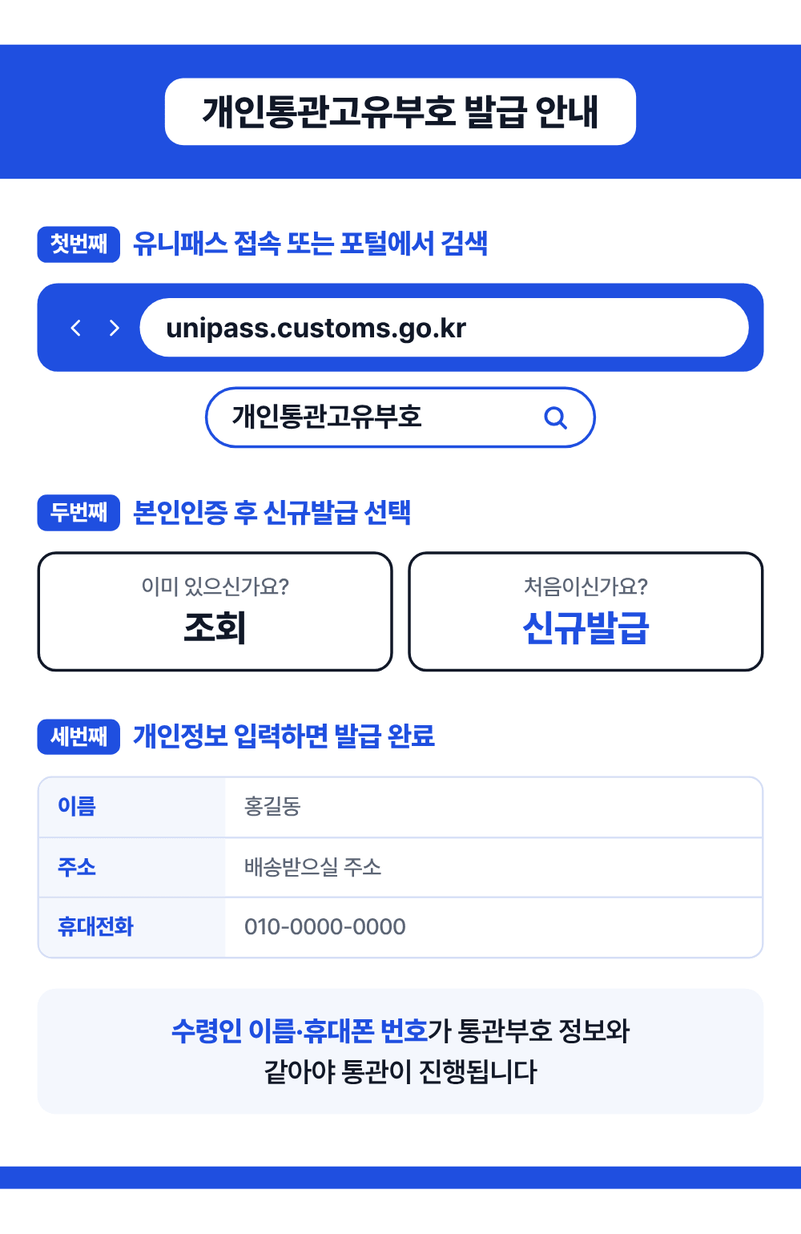
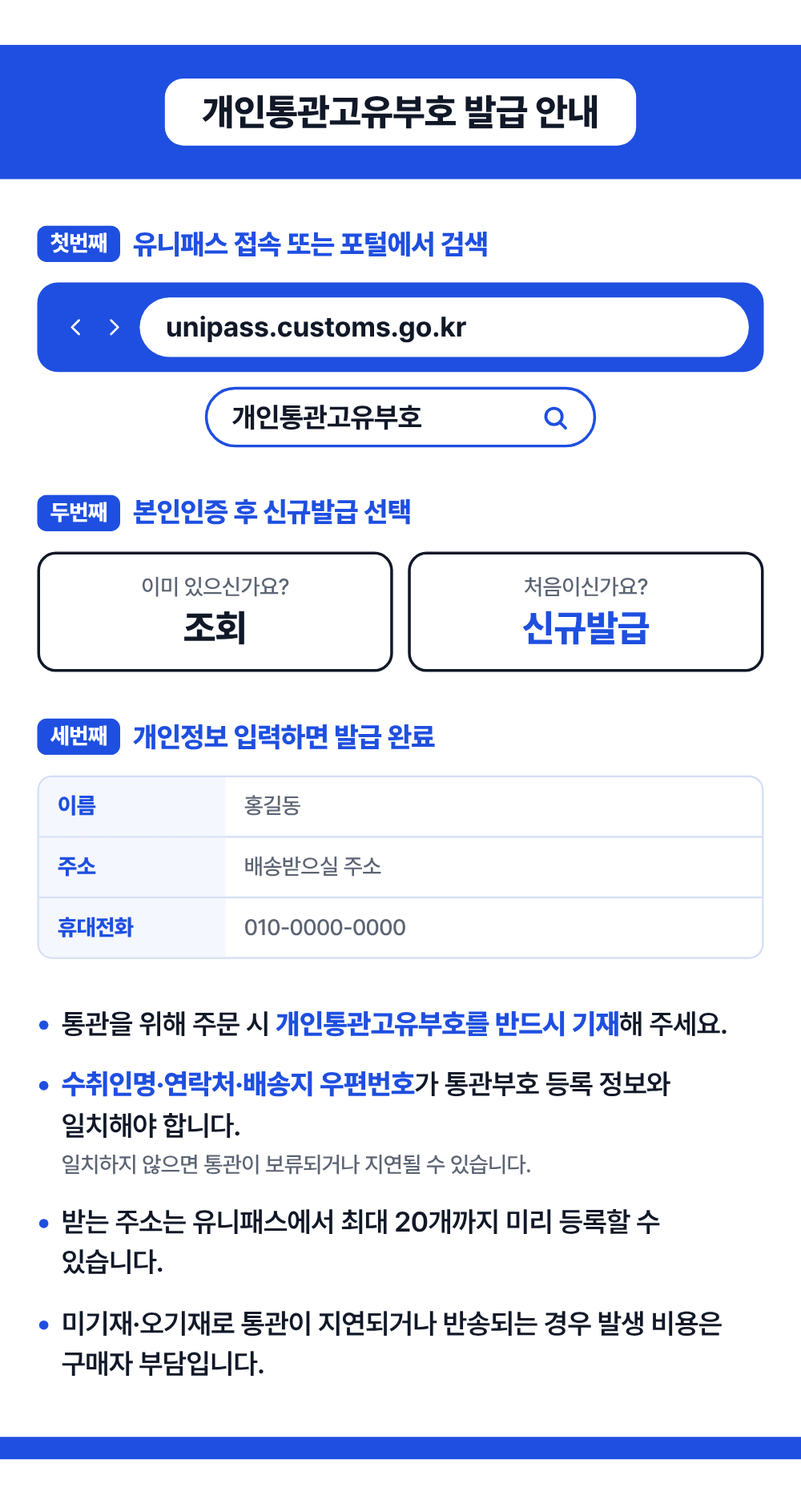
하단 안내 누락 항목 보완: 레퍼런스 하단 내용 전부 반영
- 배송: 국내 상품과 조건 차이, 국내 배송부터 조회, 통관 시 박스 개봉
- 통관부호: 우편번호 일치, 주소 20개 등록, 미기재·오기재 비용
- 관부가세: 알림톡 납부 안내, 착불 배송비 4가지 조건
- 상품: 리뉴얼 발송, 변압기·한글 설명서, 해외 사이즈
- 교환·반품: 회수 절차·임의 반송 수취 거부, 미세 흠집, 경미한 하자
- 취소: 발주 전/후/출고 후 3단계, 품절·단종 시 전액 환불, 리뉴얼 가격
- 개인정보 제3자 제공 동의, 구매대행·안전관리대상·이미지 권리 고지 추가

Claude-Session: https://claude.ai/code/session_01PE2ziTJ29XNj6qrJ9hNtvD

Changed region(s): [[0.0, 0.0312, 1.0, 0.9974], [0.93, 0.6234, 0.961, 0.6545]]

diff --git a/onnuri-design/src/bottom.html b/onnuri-design/src/bottom.html
@@ -5,10 +5,25 @@
   /* 헤더 */
   .hero { padding: 72px 40px 80px; text-align: center; }
   .hero .m { color: var(--gray); margin-bottom: 18px; }
-  .hero .notice { margin-top: 32px; display: inline-block; background: var(--main-soft); border-radius: 14px; padding: 8px 24px; }
+  .hero .notice { margin-top: 32px; display: inline-block; background: var(--main-soft); border-radius: 14px; padding: 8px 24px; color: var(--ink); }
 
-  /* 배송 6단계 (한 줄) */
-  .steps { display: grid; grid-template-columns: repeat(6, 1fr); padding: 64px 8px 36px; }
+  /* 공통 글머리 목록 */
+  .bul { list-style: none; margin-top: 36px; }
+  .bul li { position: relative; padding-left: 26px; }
+  .bul li + li { margin-top: 22px; }
+  .bul li::before { content: ""; position: absolute; left: 2px; top: 18px; width: 10px; height: 10px; border-radius: 50%; background: var(--main); }
+  .bul li b { color: var(--main); }
+  .bul li .s { display: block; margin-top: 4px; }
+  .sub { margin-top: 44px; padding-top: 36px; border-top: 2px dashed var(--line); }
+  .sub-t { color: var(--main); font-weight: 800; }
+
+  /* 파란 강조 블록 */
+  .callout { margin-top: 28px; background: var(--main); color: #fff; border-radius: 24px; padding: 28px 24px; text-align: center; }
+  .callout .xl { color: var(--point); }
+  .callout .xl small { font-size: var(--s); color: #fff; font-weight: 600; }
+
+  /* 배송 6단계 */
+  .steps { display: grid; grid-template-columns: repeat(6, 1fr); margin: 0 -28px; }
   .step { text-align: center; position: relative; }
   .step:not(:last-child)::after { content: ""; position: absolute; top: 46px; right: -10px; width: 20px; border-top: 3px dotted var(--line); }
   .step .ico { position: relative; width: 92px; height: 92px; margin: 0 auto; border-radius: 50%; background: var(--main-soft); color: var(--main); display: grid; place-items: center; font-size: 46px; }
@@ -16,11 +31,8 @@
   .step .no { position: absolute; top: -6px; left: -6px; width: 34px; height: 34px; border-radius: 50%; background: var(--main); color: #fff; font-size: var(--s); font-weight: 800; display: grid; place-items: center; line-height: 1; }
   .step.last .no { background: var(--ink); }
   .step .s { margin-top: 12px; color: var(--ink); font-weight: 700; }
-  .box-foot .xl { color: var(--point); }
-  .box-foot .xl small { font-size: var(--s); color: #fff; font-weight: 600; }
-  .under { margin: 22px 40px 0; text-align: center; }
 
-  /* 띠 헤더 (레퍼런스 개인통관 섹션 구조) */
+  /* 띠 헤더 (개인통관고유부호) */
   .band { background: var(--main); padding: 36px 40px; text-align: center; }
   .band span { display: inline-block; background: #fff; border-radius: 20px; padding: 10px 40px; }
   .band-end { height: 24px; background: var(--main); }
@@ -35,59 +47,64 @@
   .search svg { color: var(--main); stroke-width: 2.6; }
   .choose { margin-top: 20px; display: grid; grid-template-columns: 1fr 1fr; gap: 16px; }
   .choose > div { border: 3px solid var(--ink); border-radius: 20px; padding: 18px; text-align: center; }
-  .choose > div .l { color: var(--ink); }
-  .choose div.on .l { color: var(--main); }
+  .choose > div.on .l { color: var(--main); }
   .form { margin-top: 20px; border: 2px solid var(--line); border-radius: 16px; overflow: hidden; }
   .form div { display: grid; grid-template-columns: 200px 1fr; border-top: 2px solid var(--line); }
   .form div:first-child { border-top: 0; }
   .form b { background: var(--bg-2); color: var(--main); padding: 14px 20px; font-size: var(--s); }
   .form i { font-style: normal; padding: 14px 20px; font-size: var(--s); color: var(--gray); }
-  .warn { margin-top: 32px; background: var(--bg-2); border-radius: 20px; padding: 24px 28px; text-align: center; }
-  .warn .m b { color: var(--main); }
 
   /* 관부가세 */
   .tax { display: grid; grid-template-columns: 1fr 1fr; }
-  .tax > div { text-align: center; padding: 8px 0; }
+  .tax > div { text-align: center; }
   .tax > div + div { border-left: 2px solid var(--line); }
   .tax .xl { color: var(--main); }
   .tax .xl small { font-size: var(--m); color: var(--ink); font-weight: 700; }
+  /* 착불 4조건 */
+  .cod { margin-top: 24px; display: grid; grid-template-columns: repeat(4, 1fr); gap: 12px; }
+  .cod > div { background: var(--bg-2); border-radius: 20px; padding: 22px 8px; text-align: center; }
+  .cod .lab { color: var(--main); font-size: var(--m); font-weight: 900; white-space: nowrap; }
+  .cod .s { margin-top: 4px; line-height: 1.35; }
 
-  /* 체크 리스트 */
-  .list li { list-style: none; display: flex; gap: 16px; padding: 22px 0; }
-  .list li:first-child { padding-top: 0; }
-  .list li:last-child { padding-bottom: 0; }
-  .list li + li { border-top: 2px dashed var(--line); }
-  .list li svg { flex: none; font-size: var(--m); color: var(--main); stroke-width: 3; margin-top: 6px; }
-  .list .m b { color: var(--main); }
-  .list .s { display: block; margin-top: 2px; }
+  /* 주문 취소 3단계 */
+  .flow { display: grid; grid-template-columns: 1fr 28px 1fr 28px 1fr; align-items: center; }
+  .flow > div:not(.ar) { border-radius: 20px; padding: 22px 8px; text-align: center; }
+  .flow .ar { text-align: center; color: var(--gray); font-size: var(--m); font-weight: 800; }
+  .flow .f1 { background: var(--main); color: #fff; }
+  .flow .f1 .s { color: rgba(255,255,255,.85); }
+  .flow .f1 .m { color: var(--point); }
+  .flow .f2, .flow .f3 { background: var(--bg-2); }
+  .flow .m { font-weight: 800; margin-top: 4px; }
 
-  /* 주문 취소 */
-  .cancel { display: grid; grid-template-columns: 1fr 1fr; gap: 16px; }
-  .cancel > div { border-radius: 24px; padding: 30px 24px; text-align: center; }
-  .cancel .ok { background: var(--main); color: #fff; }
-  .cancel .ok .s { color: rgba(255,255,255,.85); }
-  .cancel .no { background: var(--bg-2); }
-  .cancel .l { margin: 6px 0 10px; }
-  .cancel .ok .l { color: var(--point); }
-
-  /* 교환·반품 표 */
-  .rt { border: 2px solid var(--line); border-radius: 20px; overflow: hidden; }
-  .rt .row { display: grid; grid-template-columns: 190px 1fr; }
-  .rt .row + .row { border-top: 2px solid var(--line); }
-  .rt .k { background: var(--bg-2); color: var(--main); font-size: var(--m); font-weight: 800; padding: 24px 22px; display: flex; align-items: center; }
-  .rt .v { padding: 24px 24px; }
-  .rt .v .s { display: block; margin-top: 4px; }
-  .tag2 { display: inline-block; border-radius: 8px; padding: 0 10px; margin-right: 8px; font-size: var(--s); font-weight: 800; vertical-align: 3px; }
+  /* 교환·반품 2카드 */
+  .rcard { display: grid; grid-template-columns: 1fr 1fr; gap: 16px; }
+  .rcard > div { border-radius: 24px; padding: 26px 24px; }
+  .rcard .free { border: 3px solid var(--main); }
+  .rcard .paid { background: var(--bg-2); }
+  .tag2 { display: inline-block; border-radius: 8px; padding: 0 12px; font-size: var(--s); font-weight: 800; }
   .tag2.me { background: var(--main); color: #fff; }
   .tag2.you { background: var(--point); color: var(--ink); }
+  .rcard .m { font-weight: 800; margin-top: 12px; }
+  .rcard .s { margin-top: 8px; line-height: 1.45; }
 
-  /* 고객센터 (레퍼런스 맨 아래 구조) */
+  /* 개인정보 표 */
+  .pt { margin-top: 32px; border-top: 3px solid var(--ink); }
+  .pt > div { display: grid; grid-template-columns: 200px 1fr; border-bottom: 2px solid var(--line); }
+  .pt b { background: var(--bg-2); padding: 18px 18px; font-size: var(--s); }
+  .pt span { padding: 18px 20px; font-size: var(--s); color: var(--ink); font-weight: 500; line-height: 1.5; }
+
+  /* 고객센터 */
   .cs { background: var(--main); color: #fff; text-align: center; padding: 72px 40px 80px; }
   .cs .m { color: rgba(255,255,255,.9); }
   .cs .l { margin-top: 10px; }
   .cs .l .c-point { font-size: var(--xl); font-weight: 900; vertical-align: -6px; }
   .cs .time { margin-top: 28px; display: inline-block; border: 2px solid rgba(255,255,255,.5); border-radius: 999px; padding: 10px 32px; }
   .cs .s { margin-top: 20px; color: rgba(255,255,255,.85); }
+
+  /* 법적 고지 */
+  .legal { padding: 56px 40px 64px; text-align: center; background: var(--bg-2); }
+  .legal p + p { margin-top: 20px; }
+  .legal .lic { color: var(--ink); font-weight: 700; }
 </style></head>
 <body>
 
@@ -98,27 +115,36 @@
   <div class="notice m">본 상품은 <b class="c-main">해외에서 배송</b>되는 상품입니다</div>
 </div>
 
-<!-- 배송 진행 순서 -->
+<!-- 01 배송 안내 -->
 <div class="box">
-  <div class="pill">배송 진행 순서</div>
-  <div class="steps">
-    <div class="step"><div class="ico"><span class="no">1</span><svg class="ic" viewBox="0 0 24 24"><circle cx="9" cy="20" r="1.4"/><circle cx="19" cy="20" r="1.4"/><path d="M2 3h3l2.7 12.4a2 2 0 0 0 2 1.6h8.6a2 2 0 0 0 2-1.6L22 7H6"/></svg></div><div class="s">주문·결제</div></div>
-    <div class="step"><div class="ico"><span class="no">2</span><svg class="ic" viewBox="0 0 24 24"><path d="M6 2 3 6v14a2 2 0 0 0 2 2h14a2 2 0 0 0 2-2V6l-3-4z"/><path d="M3 6h18"/><path d="M16 10a4 4 0 0 1-8 0"/></svg></div><div class="s">현지 구매</div></div>
-    <div class="step"><div class="ico"><span class="no">3</span><svg class="ic" viewBox="0 0 24 24"><rect x="8" y="2" width="8" height="4" rx="1"/><path d="M16 4h2a2 2 0 0 1 2 2v14a2 2 0 0 1-2 2H6a2 2 0 0 1-2-2V6a2 2 0 0 1 2-2h2"/><path d="m9 14 2 2 4-4"/></svg></div><div class="s">현지 검수</div></div>
-    <div class="step"><div class="ico"><span class="no">4</span><svg class="ic" viewBox="0 0 24 24"><path d="M17.8 19.2 16 11l3.5-3.5C21 6 21.5 4 21 3c-1-.5-3 0-4.5 1.5L13 8 4.8 6.2c-.5-.1-.9.1-1.1.5l-.3.5c-.2.5-.1 1 .3 1.3L9 12l-2 3H4l-1 1 3 2 2 3 1-1v-3l3-2 3.5 5.3c.3.4.8.5 1.3.3l.5-.2c.4-.3.6-.7.5-1.2z"/></svg></div><div class="s">국제 배송</div></div>
-    <div class="step"><div class="ico"><span class="no">5</span><svg class="ic" viewBox="0 0 24 24"><path d="M12 22s8-4 8-10V5l-8-3-8 3v7c0 6 8 10 8 10z"/><path d="m9 12 2 2 4-4"/></svg></div><div class="s">세관 통관</div></div>
-    <div class="step last"><div class="ico"><span class="no">6</span><svg class="ic" viewBox="0 0 24 24"><path d="M1 4h14v12H1z"/><path d="M15 8h4l4 4v4h-8z"/><circle cx="5.5" cy="18.5" r="2"/><circle cx="18.5" cy="18.5" r="2"/></svg></div><div class="s">국내 배송</div></div>
-  </div>
-  <div class="box-foot">
-    <div class="m">결제 후 받아보시기까지 평균</div>
-    <div class="xl">7~15일 <small>(영업일 기준)</small></div>
+  <div class="pill">배송 안내</div>
+  <div class="box-in">
+    <div class="steps">
+      <div class="step"><div class="ico"><span class="no">1</span><svg class="ic" viewBox="0 0 24 24"><circle cx="9" cy="20" r="1.4"/><circle cx="19" cy="20" r="1.4"/><path d="M2 3h3l2.7 12.4a2 2 0 0 0 2 1.6h8.6a2 2 0 0 0 2-1.6L22 7H6"/></svg></div><div class="s">주문·결제</div></div>
+      <div class="step"><div class="ico"><span class="no">2</span><svg class="ic" viewBox="0 0 24 24"><path d="M6 2 3 6v14a2 2 0 0 0 2 2h14a2 2 0 0 0 2-2V6l-3-4z"/><path d="M3 6h18"/><path d="M16 10a4 4 0 0 1-8 0"/></svg></div><div class="s">현지 발주</div></div>
+      <div class="step"><div class="ico"><span class="no">3</span><svg class="ic" viewBox="0 0 24 24"><rect x="8" y="2" width="8" height="4" rx="1"/><path d="M16 4h2a2 2 0 0 1 2 2v14a2 2 0 0 1-2 2H6a2 2 0 0 1-2-2V6a2 2 0 0 1 2-2h2"/><path d="m9 14 2 2 4-4"/></svg></div><div class="s">현지 검수</div></div>
+      <div class="step"><div class="ico"><span class="no">4</span><svg class="ic" viewBox="0 0 24 24"><path d="M17.8 19.2 16 11l3.5-3.5C21 6 21.5 4 21 3c-1-.5-3 0-4.5 1.5L13 8 4.8 6.2c-.5-.1-.9.1-1.1.5l-.3.5c-.2.5-.1 1 .3 1.3L9 12l-2 3H4l-1 1 3 2 2 3 1-1v-3l3-2 3.5 5.3c.3.4.8.5 1.3.3l.5-.2c.4-.3.6-.7.5-1.2z"/></svg></div><div class="s">국제 배송</div></div>
+      <div class="step"><div class="ico"><span class="no">5</span><svg class="ic" viewBox="0 0 24 24"><path d="M12 22s8-4 8-10V5l-8-3-8 3v7c0 6 8 10 8 10z"/><path d="m9 12 2 2 4-4"/></svg></div><div class="s">세관 통관</div></div>
+      <div class="step last"><div class="ico"><span class="no">6</span><svg class="ic" viewBox="0 0 24 24"><path d="M1 4h14v12H1z"/><path d="M15 8h4l4 4v4h-8z"/><circle cx="5.5" cy="18.5" r="2"/><circle cx="18.5" cy="18.5" r="2"/></svg></div><div class="s">국내 배송</div></div>
+    </div>
+    <div class="callout">
+      <div class="m">결제 후 받아보시기까지 평균</div>
+      <div class="xl">7~15일 <small>(영업일 기준)</small></div>
+    </div>
+    <ul class="bul m">
+      <li>주문 후 현지에서 발주되는 <b>해외 배송 상품</b>으로, 국내 배송 상품과 배송 기간·취소·반품 조건이 다릅니다.</li>
+      <li>현지 센터에서 <b>검수를 마친 뒤 발송</b>합니다.</li>
+      <li>운송장 배송 조회는 <b>국내 배송이 시작된 이후부터</b> 가능합니다.</li>
+      <li>통관 검사를 위해 오리지널 박스가 개봉될 수 있으며, 반품 사유에 해당하지 않습니다.</li>
+      <li>세관 통관·현지 입고 지연·명절·기상 상황 등으로 배송이 늦어질 수 있습니다.</li>
+      <li>여러 상품을 함께 주문하시면 따로 도착할 수 있습니다.</li>
+    </ul>
   </div>
 </div>
-<div class="under s">세관 통관 · 현지 입고 지연 · 명절 · 기상 상황 등으로 늦어질 수 있습니다.<br>여러 상품을 주문하시면 따로 도착할 수 있습니다.</div>
 
 <div class="gap"></div>
 
-<!-- 개인통관고유부호 -->
+<!-- 02 개인통관고유부호 -->
 <div class="band"><span class="l">개인통관고유부호 발급 안내</span></div>
 <div class="pc">
   <div class="pstep">
@@ -141,67 +167,122 @@
       <div><b>휴대전화</b><i>010-0000-0000</i></div>
     </div>
   </div>
-  <div class="warn"><div class="m"><b>수령인 이름·휴대폰 번호</b>가 통관부호 정보와<br>같아야 통관이 진행됩니다</div></div>
+  <ul class="bul m" style="margin-top:48px">
+    <li>통관을 위해 주문 시 <b>개인통관고유부호를 반드시 기재</b>해 주세요.</li>
+    <li><b>수취인명·연락처·배송지 우편번호</b>가 통관부호 등록 정보와 일치해야 합니다.<span class="s">일치하지 않으면 통관이 보류되거나 지연될 수 있습니다.</span></li>
+    <li>받는 주소는 유니패스에서 최대 20개까지 미리 등록할 수 있습니다.</li>
+    <li>미기재·오기재로 통관이 지연되거나 반송되는 경우 발생 비용은 구매자 부담입니다.</li>
+  </ul>
 </div>
 <div class="band-end"></div>
 
 <div class="gap"></div>
 
-<!-- 관부가세 -->
+<!-- 03 배송비와 관부가세 -->
 <div class="box">
-  <div class="pill">관부가세 안내</div>
+  <div class="pill">배송비와 관·부가세</div>
   <div class="box-in">
     <div class="tax">
       <div><div class="m">미국 발송</div><div class="xl">$200<small> 이하</small></div></div>
       <div><div class="m">그 외 국가 발송</div><div class="xl">$150<small> 이하</small></div></div>
     </div>
+    <div class="callout"><div class="m">위 금액 이하로 구매하시면 <b class="c-point">관부가세가 없습니다</b></div></div>
+    <ul class="bul m">
+      <li>면세 한도를 초과하면 <b>구매자가 관부가세를 별도로 납부</b>합니다.<span class="s">통관 시 관세청에서 알림톡 또는 문자로 납부 안내가 발송됩니다.</span></li>
+      <li>같은 날 입항하는 여러 건의 주문은 합산 과세될 수 있습니다.</li>
+    </ul>
+    <div class="sub">
+      <div class="m sub-t">착불 배송비 안내</div>
+      <div class="m" style="margin-top:6px">아래에 해당하면 <b>착불 배송비가 발생하며 구매자 부담</b>입니다.</div>
+      <div class="cod">
+        <div><div class="lab">1m ↑</div><div class="s">박스 한 변이<br>1m 이상</div></div>
+        <div><div class="lab">150cm ↑</div><div class="s">박스 세 변<br>합이 150cm 이상</div></div>
+        <div><div class="lab">20kg ↑</div><div class="s">상품 무게가<br>20kg 초과</div></div>
+        <div><div class="lab">이형</div><div class="s">상품 모양이<br>이형인 경우</div></div>
+      </div>
+      <ul class="bul m"><li>착불 배송비는 담당 기사님이 실제로 측정해 결정하므로 미리 안내드리기 어렵습니다.</li></ul>
+    </div>
   </div>
-  <div class="box-foot"><div class="m">위 금액 이하로 구매하시면 <b class="c-point">관부가세가 없습니다</b></div></div>
 </div>
-<div class="under s">면세 한도 초과 시 관부가세는 수입자(고객님) 부담입니다.<br>같은 날 같은 나라에서 들어온 물품은 합산 과세될 수 있습니다.</div>
 
 <div class="gap"></div>
 
-<!-- 주문 필독 사항 -->
+<!-- 04 상품 안내 -->
 <div class="box">
-  <div class="pill">주문 필독 사항</div>
+  <div class="pill">상품 안내</div>
   <div class="box-in">
-    <ul class="list">
-      <li><svg class="ic" viewBox="0 0 24 24"><path d="M20 6 9 17l-5-5"/></svg><div class="m"><b>옵션명·옵션 이미지</b> 기준으로 발송됩니다<span class="s">대표 사진은 연출 이미지로 구성이 다를 수 있습니다</span></div></li>
-      <li><svg class="ic" viewBox="0 0 24 24"><path d="M20 6 9 17l-5-5"/></svg><div class="m">사이즈는 <b>1~3cm 오차</b>가 있을 수 있습니다</div></li>
-      <li><svg class="ic" viewBox="0 0 24 24"><path d="M20 6 9 17l-5-5"/></svg><div class="m">화면에 따라 <b>실제 색상과 차이</b>가 있을 수 있습니다</div></li>
-      <li><svg class="ic" viewBox="0 0 24 24"><path d="M20 6 9 17l-5-5"/></svg><div class="m">전자제품은 <b>전압(110V/220V)·플러그</b>를 확인해 주세요</div></li>
-      <li><svg class="ic" viewBox="0 0 24 24"><path d="M20 6 9 17l-5-5"/></svg><div class="m"><b>박스 눌림·외부 포장 흠집</b>은 교환·반품 사유가 아닙니다</div></li>
-      <li><svg class="ic" viewBox="0 0 24 24"><path d="M20 6 9 17l-5-5"/></svg><div class="m">해외 구매대행 상품으로 <b>국내 A/S가 어려울 수 있습니다</b></div></li>
+    <ul class="bul m" style="margin-top:0">
+      <li>상품은 <b>옵션명·옵션 이미지 기준</b>으로 발송됩니다.<span class="s">대표 사진은 연출 이미지로 구성이 다를 수 있습니다.</span></li>
+      <li>현지 제조 공정 변화 등으로 <b>디자인·사이즈에 차이</b>가 있을 수 있으며, 리뉴얼 상품으로 발송될 수 있습니다.</li>
+      <li>상품 색상은 모니터·휴대폰 화면에 따라 다르게 보일 수 있습니다.</li>
+      <li>실측 사이즈는 측정 방식에 따라 <b>약 1~3cm 오차</b>가 있을 수 있으며, 불량에 해당하지 않습니다.</li>
+      <li>전자·전기제품은 <b>전압(110V/220V)과 플러그 규격</b>을 확인해 주세요.<span class="s">변압기·어댑터가 필요할 수 있으며, 한글 설명서가 제공되지 않을 수 있습니다.</span></li>
+      <li>의류·잡화는 <b>해외 사이즈 기준</b>이므로 상세 사이즈표를 확인해 주세요.<span class="s">착용·세탁 후에는 반품이 불가합니다.</span></li>
     </ul>
   </div>
 </div>
 
 <div class="gap"></div>
 
-<!-- 주문 취소 -->
+<!-- 05 교환·반품 -->
 <div class="box">
-  <div class="pill">주문 취소 안내</div>
+  <div class="pill">교환·반품 안내</div>
   <div class="box-in">
-    <div class="cancel">
-      <div class="ok"><div class="s">현지 구매 전</div><div class="l">즉시 취소 가능</div><div class="s">결제 금액 전액 환불</div></div>
-      <div class="no"><div class="s">현지 구매 후</div><div class="l">취소 비용 발생</div><div class="s">현지 반품 비용 등 차감<br>출고 후에는 반품으로 진행</div></div>
+    <div class="rcard">
+      <div class="free"><span class="tag2 me">무상</span><div class="m">파손·오배송·제품 결함</div><div class="s">무상 교환·환불해 드립니다.<br>수령 후 7일 이내 사진 또는 동영상과 함께 접수해 주세요.</div></div>
+      <div class="paid"><span class="tag2 you">구매자 부담</span><div class="m">단순 변심</div><div class="s">왕복 배송비를 구매자가 부담합니다. 해외 왕복 운송이 포함되어 부피·중량에 따라 금액이 다르며, 접수 시 안내해 드립니다.</div></div>
     </div>
+    <ul class="bul m">
+      <li>교환·반품은 <b>상품 수령 후 7일 이내</b>에 톡톡으로 먼저 접수해 주세요.</li>
+      <li>반품 회수는 당사에서 진행합니다. <b>사전 연락 없이 보내신 상품은 수취 거부</b>되며, 이후 발생하는 비용과 문제는 책임지지 않습니다.</li>
+      <li>배송 중 생길 수 있는 미세한 스크래치, 찌그러짐, 마감·접착 흔적, 박스 눌림·손상은 무상 교환·환불 대상이 아닙니다.</li>
+      <li>사용·세탁하셨거나 택·본품 박스가 훼손된 경우, 위생 상품을 개봉한 경우, 기능상 문제가 없는 경미한 하자는 반품이 어렵습니다.</li>
+      <li>해외 제품을 대신 구매해 드리는 서비스로 <b>A/S는 제공되지 않습니다.</b></li>
+    </ul>
   </div>
 </div>
 
 <div class="gap"></div>
 
-<!-- 교환·반품 -->
+<!-- 06 주문 취소 -->
 <div class="box">
-  <div class="pill">교환·반품 안내</div>
+  <div class="pill">주문 취소 안내</div>
   <div class="box-in">
-    <div class="rt">
-      <div class="row"><div class="k">신청 기간</div><div class="v"><div class="m">상품 <b>수령 후 7일 이내</b></div><span class="s">사진·영상을 함께 보내주시면 빠르게 처리됩니다</span></div></div>
-      <div class="row"><div class="k">비용 부담</div><div class="v"><div class="m"><span class="tag2 me">판매자</span>불량 · 오배송 · 파손</div><div class="m" style="margin-top:8px"><span class="tag2 you">고객님</span>단순 변심 · 교환</div><span class="s">단순 변심 시 상품 페이지에 안내된 반품 배송비가 적용됩니다</span></div></div>
-      <div class="row"><div class="k">불가 사유</div><div class="v"><div class="m">사용·세탁·택 제거, 포장 훼손,<br>수령 후 7일 경과, 위생 상품 개봉</div></div></div>
+    <div class="flow">
+      <div class="f1"><div class="s">현지 발주 전</div><div class="m">전액 취소 가능</div></div>
+      <div class="ar">›</div>
+      <div class="f2"><div class="s">발주 완료 후</div><div class="m">취소 불가</div></div>
+      <div class="ar">›</div>
+      <div class="f3"><div class="s">국내 출고 후</div><div class="m">반품으로 진행</div></div>
     </div>
-    <div class="warn"><div class="m">반송 전 <b>반드시 톡톡으로 먼저</b> 문의해 주세요</div><div class="s">임의로 보내시면 처리가 늦어질 수 있습니다</div></div>
+    <ul class="bul m">
+      <li>현지 발주 전까지는 <b>전액 취소</b>가 가능합니다.</li>
+      <li>발주가 완료되면 이미 해외에서 배송이 시작된 상태라 <b>취소가 불가</b>합니다. 국내 출고 후에는 반품으로 진행됩니다.</li>
+      <li>현지 품절 시에는 바로 안내드리고 <b>전액 환불</b>해 드립니다.</li>
+      <li>현지 상품의 리뉴얼·단종, 공장 사정, 과도한 배송 지연 등으로 주문하신 사양 그대로 발송이 어려운 경우, 안내 후 주문을 취소하고 결제 금액 전액을 환불해 드립니다.<span class="s">이 경우 결제 금액 외의 별도 보상은 어려운 점 양해 부탁드립니다.</span></li>
+      <li>리뉴얼된 상품은 사양과 현지 원가가 달라 기존 판매가와 가격이 다를 수 있으며, 별도 상품으로 등록됩니다.</li>
+    </ul>
+  </div>
+</div>
+
+<div class="gap"></div>
+
+<!-- 07 개인정보 제3자 제공 동의 -->
+<div class="box">
+  <div class="pill">개인정보 제3자 제공 동의</div>
+  <div class="box-in">
+    <ul class="bul m" style="margin-top:0">
+      <li>해외구매대행 상품은 현지 발주부터 수입 통관, 국내 배송까지 여러 업체를 거치며, 이 과정에서 수취인 정보를 제공해야 배송이 가능합니다. <b>주문 시 아래 내용에 동의하신 것으로 봅니다.</b></li>
+    </ul>
+    <div class="pt">
+      <div><b>제공받는 자</b><span>해외 현지 물류대행사, 국제 운송사, 통관 대행사(관세사), 국내 택배사</span></div>
+      <div><b>제공 목적</b><span>해외구매대행 상품의 현지 발주, 국제 운송, 수입 통관, 국내 배송</span></div>
+      <div><b>제공 항목</b><span>수취인 성명, 연락처, 배송지 주소, 개인통관고유부호</span></div>
+      <div><b>보유·이용 기간</b><span>제공 목적 달성 시까지 (관계 법령에 보존 기간이 정해진 경우 해당 기간까지)</span></div>
+    </div>
+    <ul class="bul m">
+      <li>동의를 거부하실 수 있으나, 통관과 배송에 필요한 최소한의 항목이므로 거부 시 주문 진행이 제한됩니다.</li>
+    </ul>
   </div>
 </div>
 
@@ -213,5 +294,14 @@
   <div class="l"><span class="c-point">네이버 톡톡</span>으로 문의해 주세요</div>
   <div class="time m">평일 10:00 ~ 18:00 (점심 12:00 ~ 13:00)</div>
   <div class="s">주말·공휴일 문의는 다음 영업일에 순서대로 답변드립니다</div>
+</div>
+
+<!-- 법적 고지 -->
+<div class="legal s">
+  <p>이 제품은 구매대행을 통하여 유통되는 제품입니다.<br>이 제품은 전기용품 및 생활용품 안전관리법에 따른 안전관리대상 제품입니다.</p>
+  <p>본 상품페이지는 현지 업체의 이미지를 사용하여 제작되었습니다.<br>권리침해 등의 문제가 있는 경우 연락 주시면 즉시 시정하겠습니다.</p>
+  <!-- 수입식품(식품·건강식품 등)을 판매하는 경우 아래 줄의 주석을 풀고 번호를 넣으세요
+  <p class="lic">수입식품안전관리 특별법에 의한 영업등록 제 0000000000 호</p>
+  -->
 </div>
 </body></html>

diff --git a/onnuri-design/README.md b/onnuri-design/README.md
@@ -4,7 +4,7 @@
 | 파일 | 용도 | 크기 | 용량 |
 |---|---|---|---|
 | `onnuri_top.png` | 상세 **상단** (바로 아래 옵션표) | 1000 × 735 | 약 17KB |
-| `onnuri_bottom_01~04.png` | 상세 **하단** 4장, 위에서부터 순서대로 | 1000 × 1128~1992 | 장당 30~60KB |
+| `onnuri_bottom_01~08.png` | 상세 **하단** 8장, 위에서부터 순서대로 | 1000 × 891~1877 | 장당 25~55KB |
 | `onnuri_watermark.png` | **워터마크** (기본, 블루 + 흰 외곽선) | 496 × 128, 투명 | 약 5KB |
 | `onnuri_watermark_white.png` | 워터마크 (어두운 사진용 흰색) | 496 × 128, 투명 | 약 4KB |
 | `onnuri_profile.png` | 스토어 프로필 | 1000 × 1000 | |
@@ -12,7 +12,7 @@
 | `onnuri_brand_guide.png` | 로고·컬러·글씨 크기 규칙 | 1200 × 1904 | |
 
 - 상단·하단은 가로 1000px, 장당 세로 2000px 이하. 하단은 섹션 사이 여백에서만 잘리게 자동 분할됩니다.
-- 글자·아이콘 위주 단색 디자인이라 PNG로 저장했고, 상단+하단 전체 약 220KB입니다.
+- 글자·아이콘 위주 단색 디자인이라 PNG로 저장했고, 상단+하단 전체 약 370KB입니다.
 
 ## 문구 수정 후 다시 만들기
 1. `src/*.html`에서 문구를 바꿉니다 (예: 운영시간은 `src/bottom.html` 맨 아래 고객센터).
